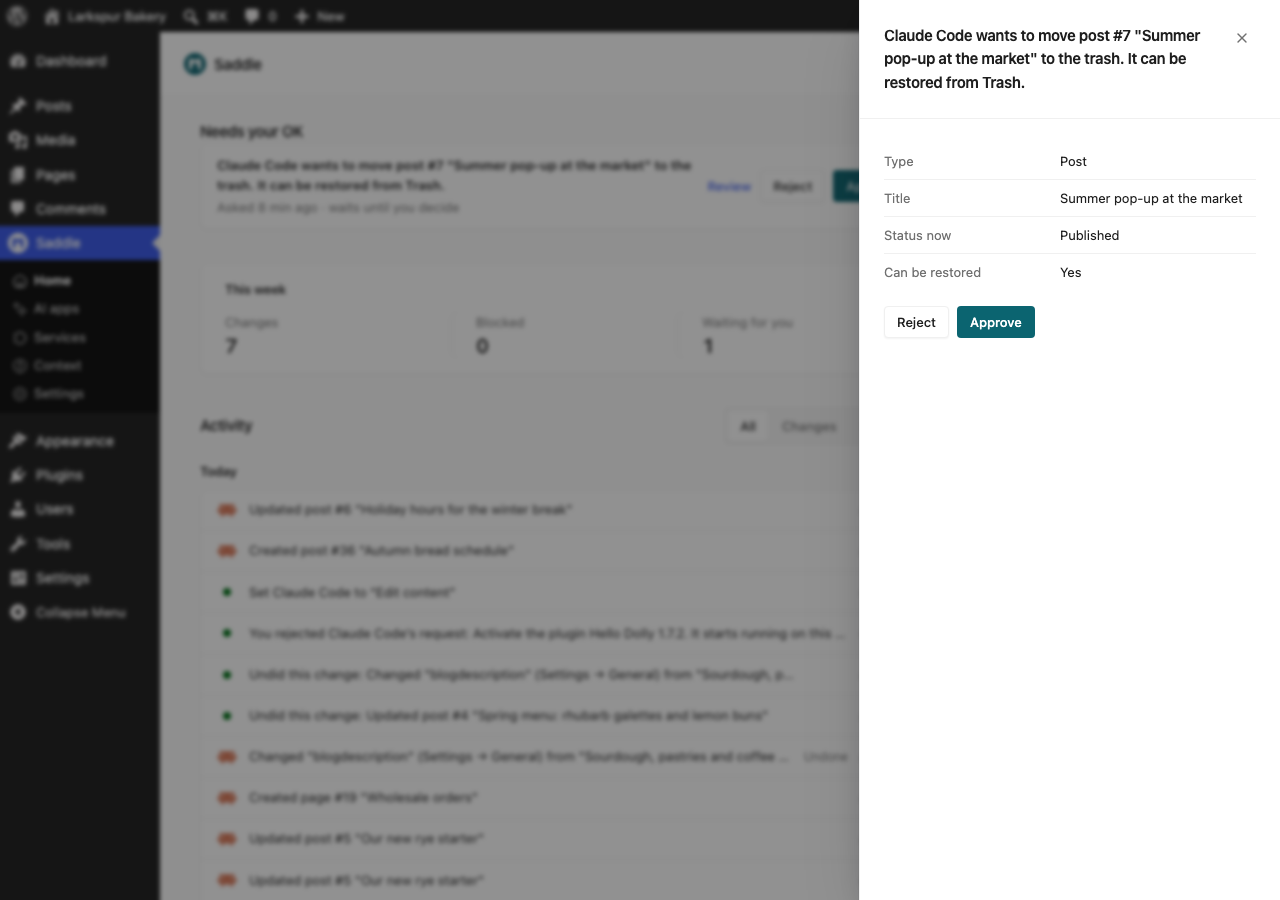
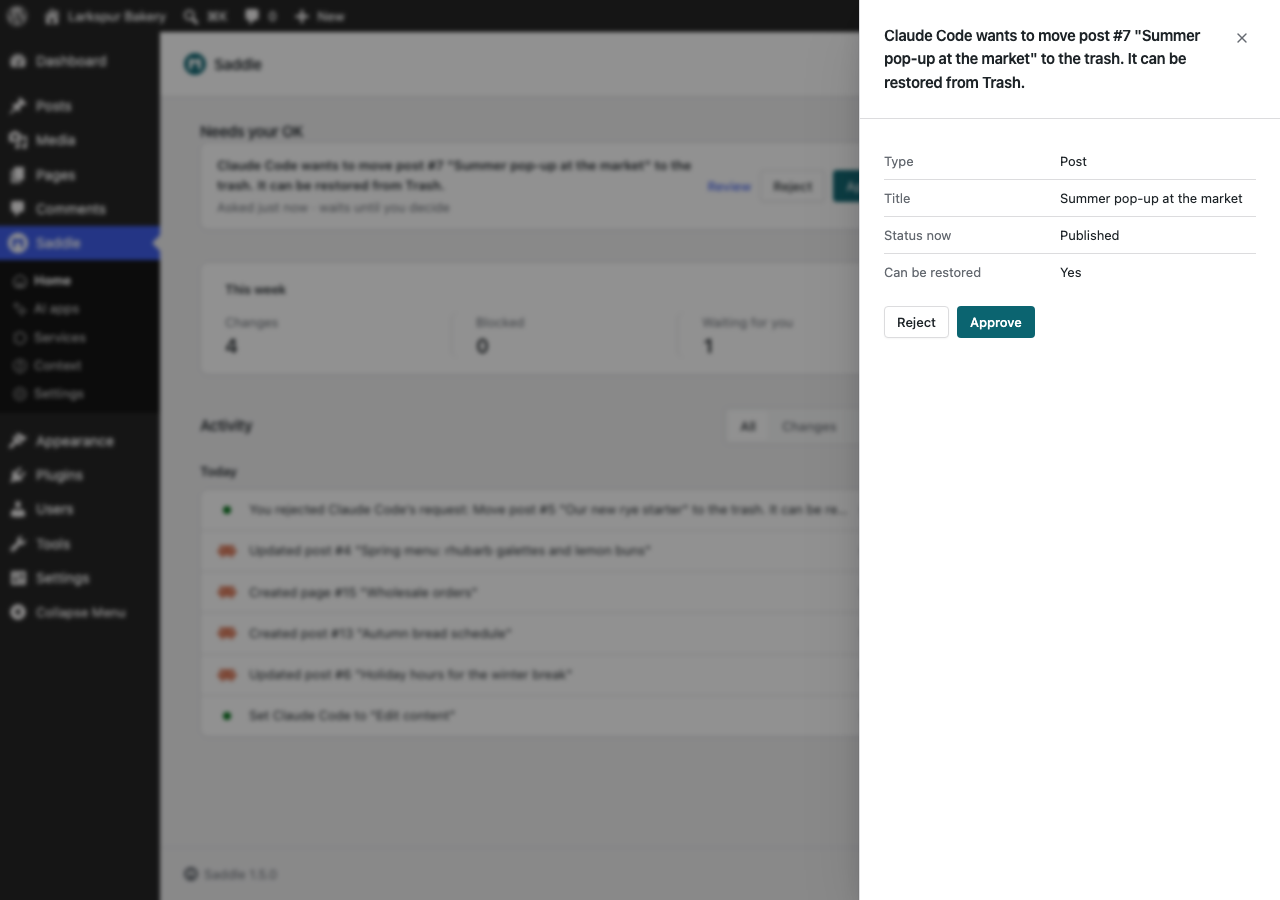
fix(admin): a field's edge darkens under the pointer; v3 screenshots
- V6 from the re-check: the kit's hover reads --pp-border-strong
  (#c3c4c7), lighter than the field edge, so a field faded under the
  pointer. Inside a control it is the one grey now.
- The six readme screenshots, retaken on palette v3 (same content and
  order; captions unchanged).

diff --git a/admin/src/style.scss b/admin/src/style.scss
@@ -118,15 +118,23 @@ body.saddle-admin-page {
 
 	// Field edges and the off switch need 3:1 against white; wp-admin's
 	// #8c8f94 is 3.24.
+	// Under the pointer the edge darkens to the one grey; the kit's hover
+	// reads --pp-border-strong, which on its own is lighter than the field
+	// edge and made the field fade.
 	.pp-control {
 		--pp-border: var( --s-field-edge );
+		--pp-border-strong: var( --s-fg-muted );
 	}
 
 	// WordPress core's input[type=search|number|…] rules outrank the kit's
-	// .pp-control and kept their own edge, so the colour is named here, and
+	// .pp-control and kept their own edge, so the colours are named here, and
 	// focus still wins.
-	input.pp-control:not( :focus ):not( :hover ) {
-		border-color: var( --s-field-edge );
+	input.pp-control:not( :focus ) {
+		border-color: var( --pp-border );
+	}
+
+	input.pp-control:hover:not( :focus ):not( :disabled ) {
+		border-color: var( --pp-border-strong );
 	}
 
 	// The off switch is WordPress's own toggle: a white track with the field
